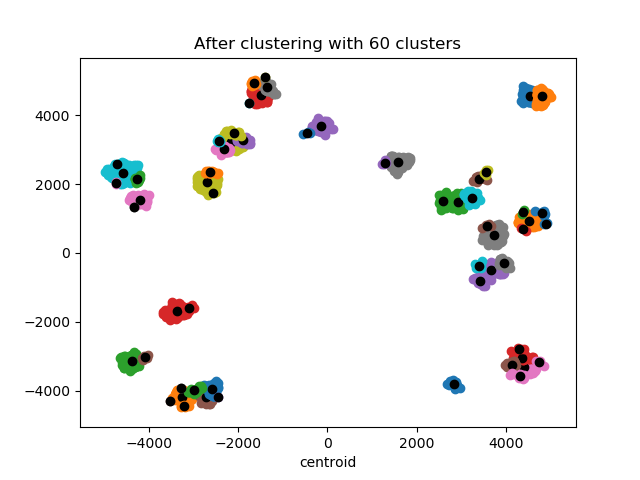
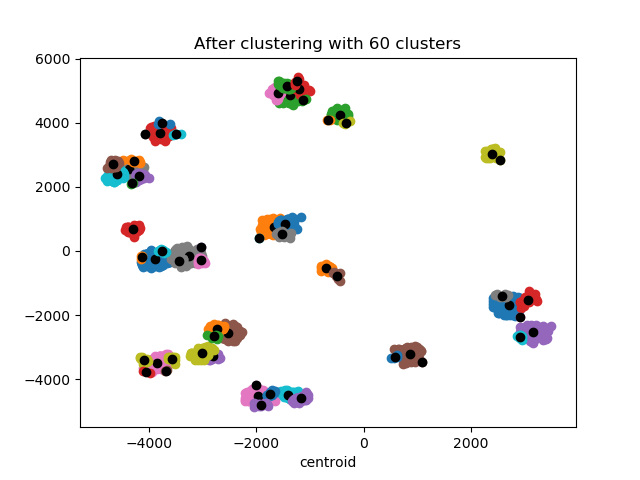
photos + tests

diff --git a/V3.0/classes.py b/V3.0/classes.py
@@ -215,9 +215,9 @@ class Map:
         #executionTime = (time.time() - startTime)
         #print('Execution time in seconds: ' + str(executionTime))
         # print statistics
-        # self.statistics(k)
+        self.statistics(k)
         # print clusters
-        # self.picture_after(k, 'medoid')
+        self.picture_after(k, 'medoid')
             
     def picture_after(self, k:int, method:str='centroid'):
         import matplotlib.pyplot as plt
